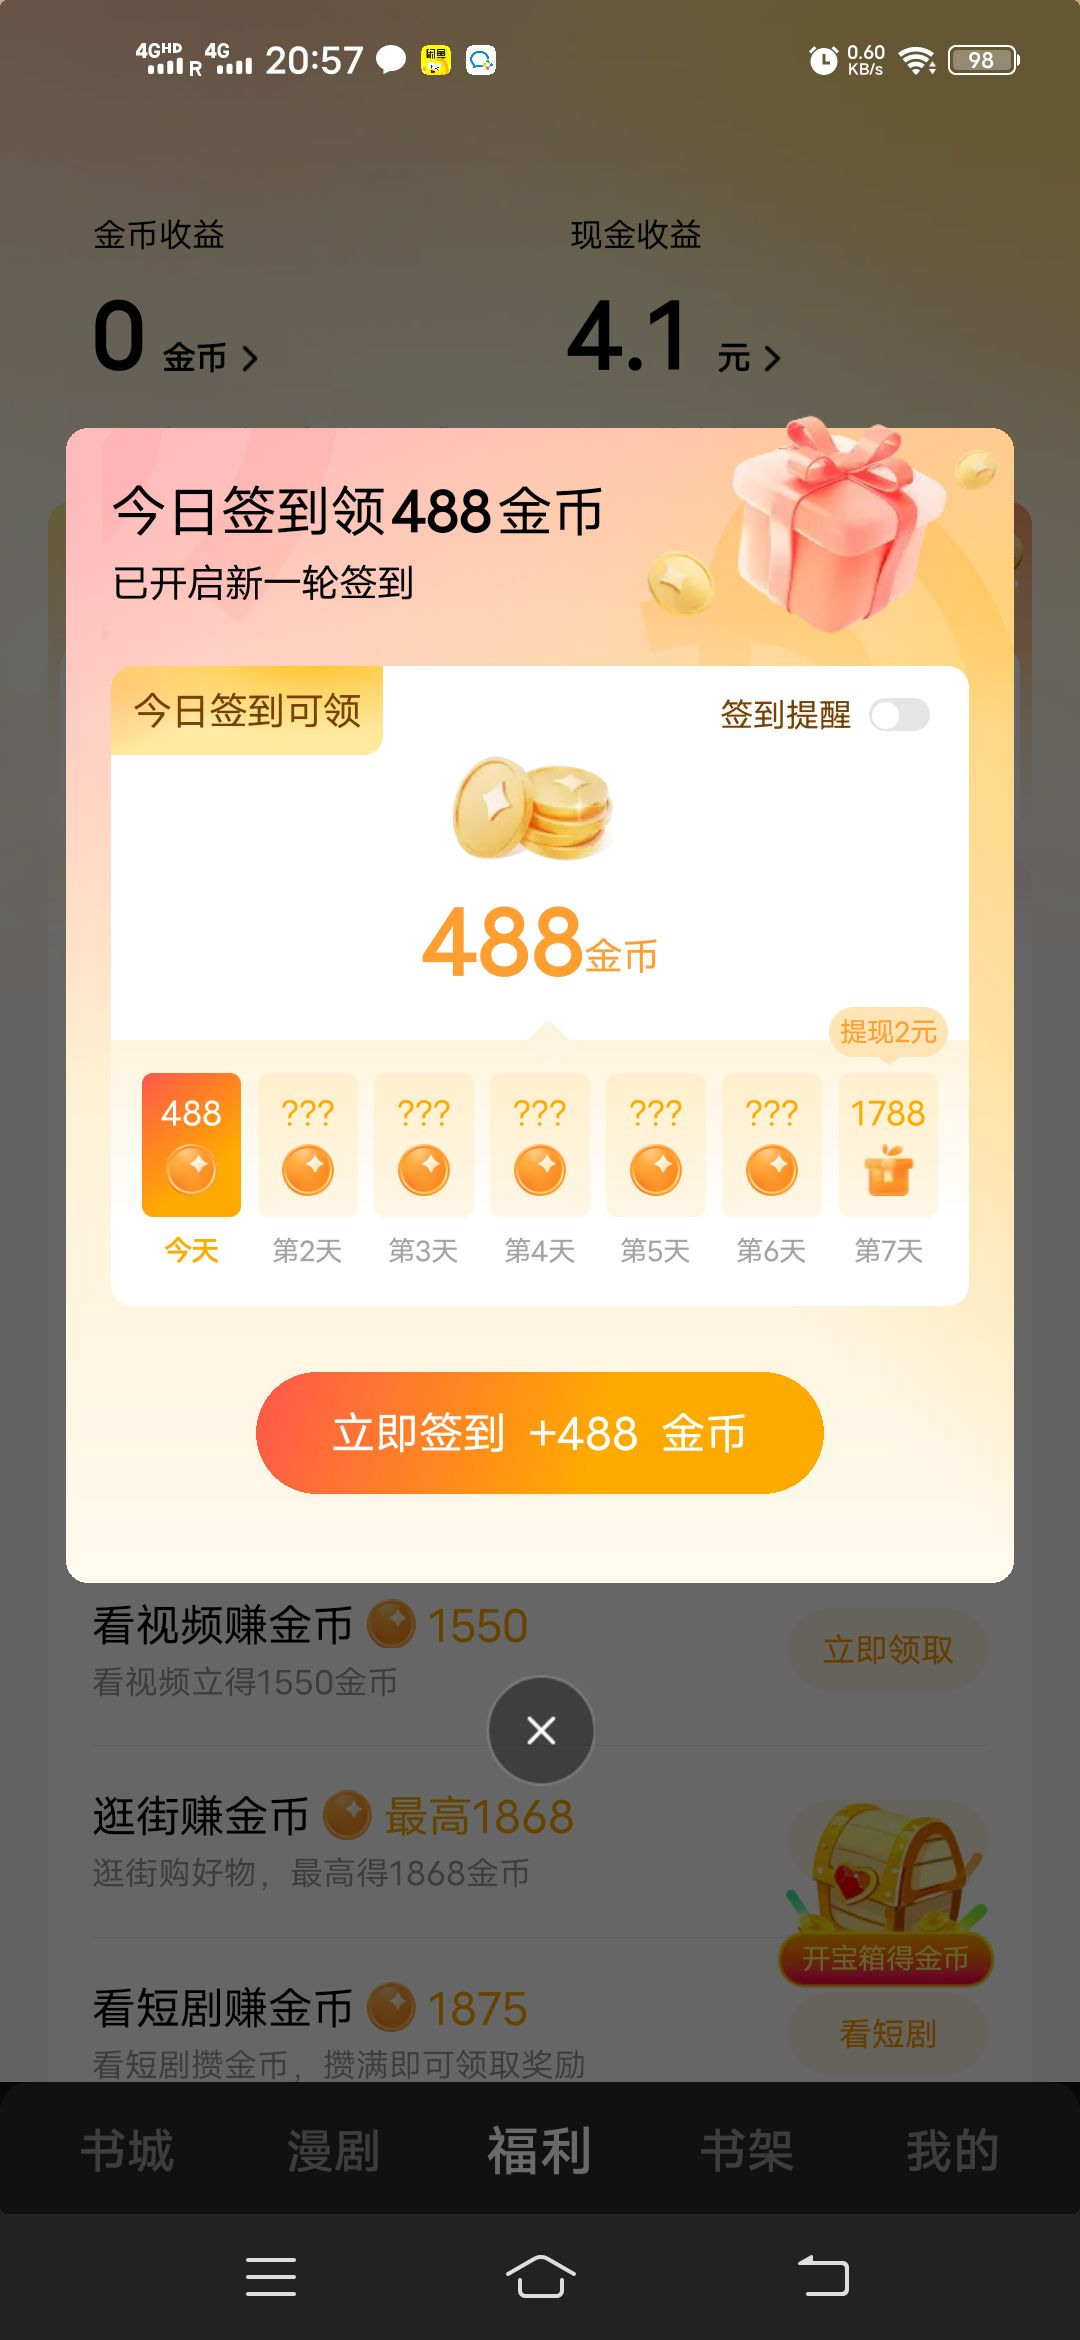
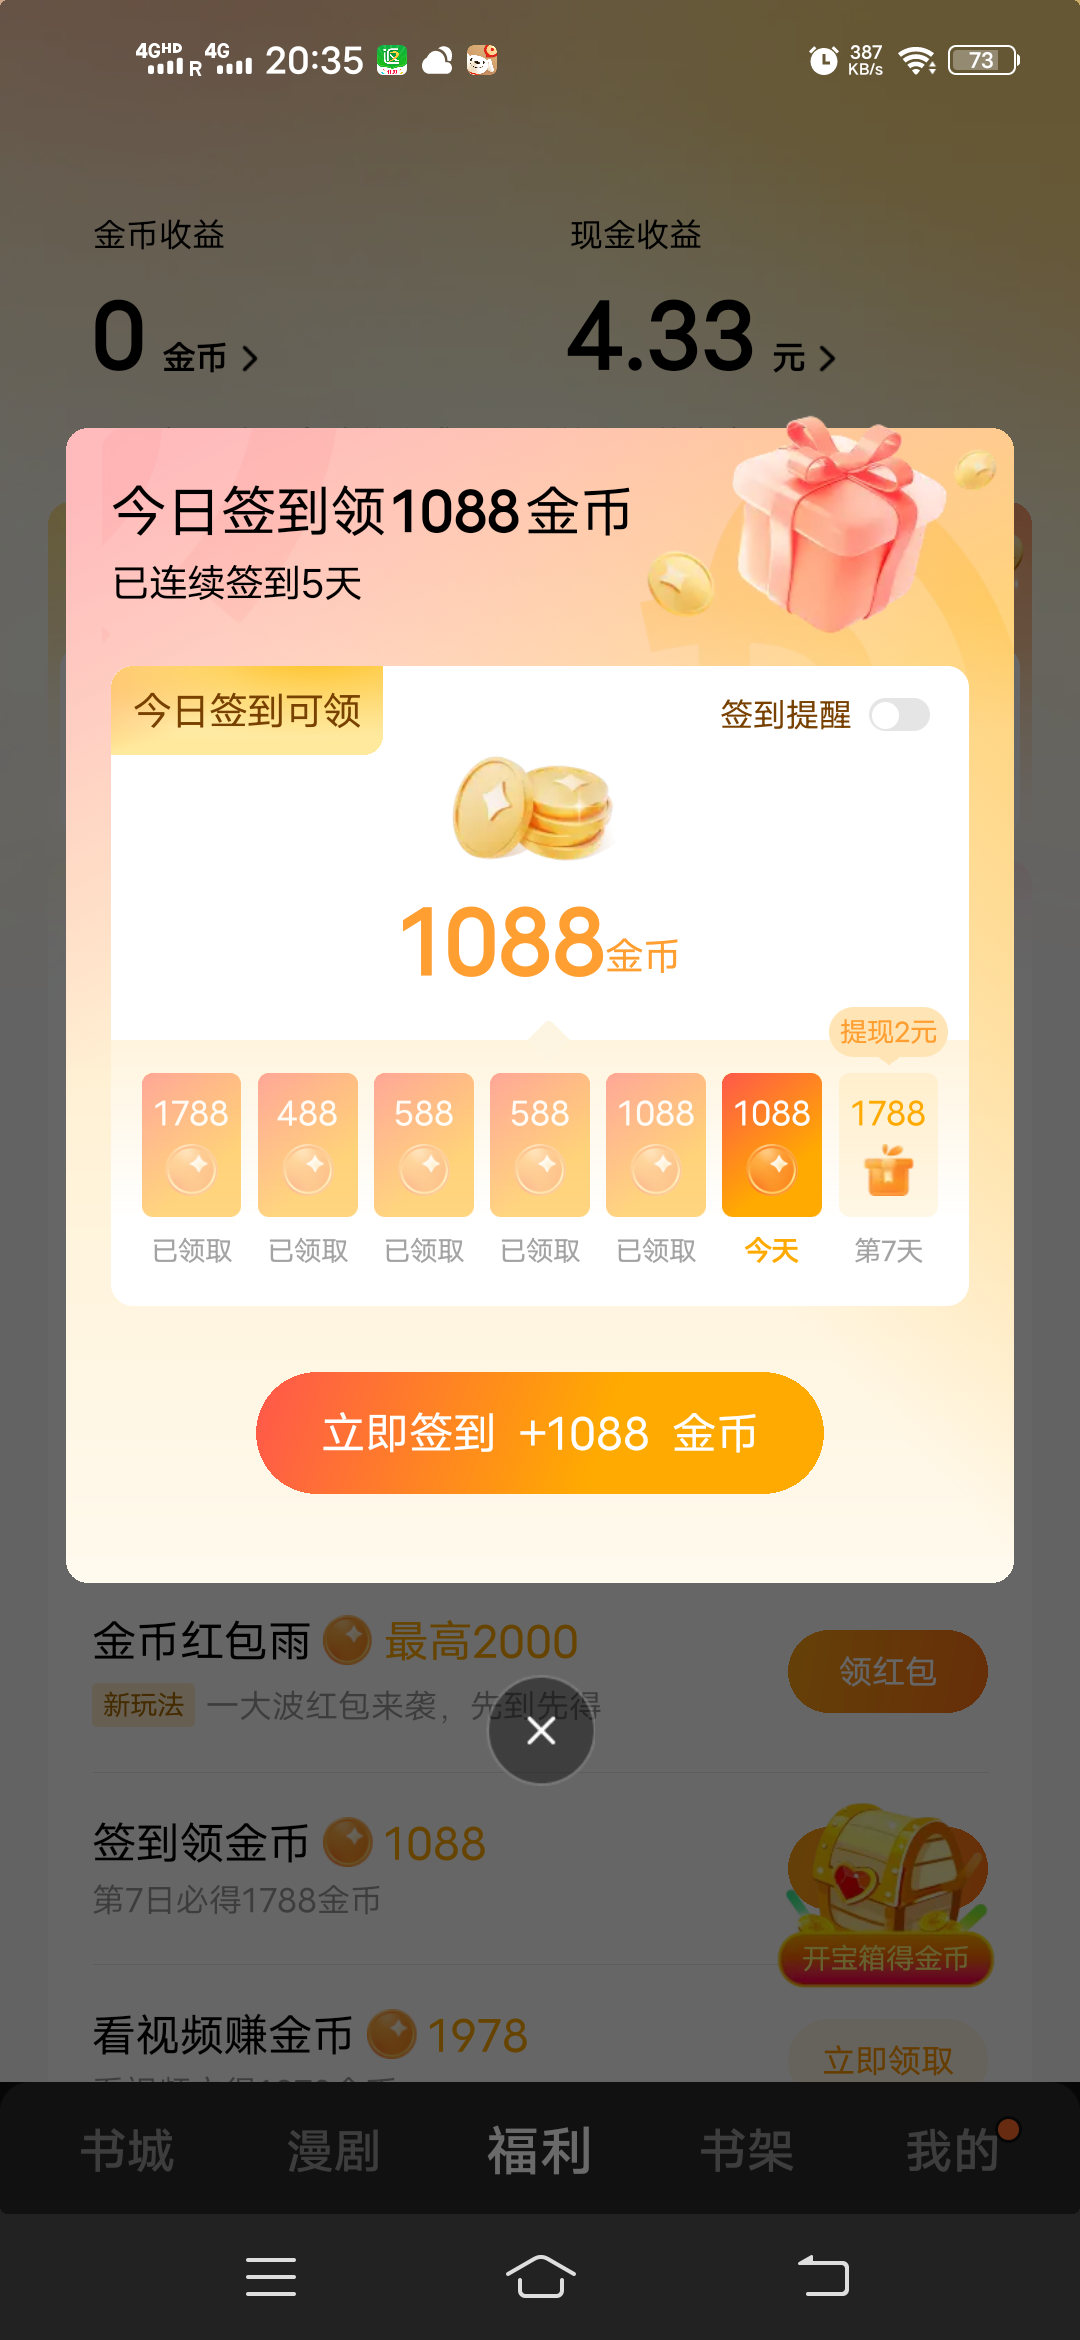
蛋花 ref_dialog.png 重拍成功：点签到行触真弹窗（红包雨未触发），替换损坏占位
- ref 复核：弹窗自比 dist=0 / 无弹窗福利页 dist=30（阈值14）
- 今日未签态自证（已连续5天/今天第6天1088）；立即签到(539,1432) 与配置吻合
- 旧损坏图备份 temp/recycle_20261103_eggref/；config 仅注记更新（解析零变化）

diff --git a/docs/全量跑35app对比_2026-11-02.md b/docs/全量跑35app对比_2026-11-02.md
@@ -284,3 +284,18 @@
 
 **门禁**：pytest **563 passed**（含 parity 35 + step_model 28 全绿）。
 **遗留**：蛋花 ref_dialog.png 重抓（任务3）、红果 sign 次日未签态重校（任务4）、全量重回归（任务5）。
+
+### 5.12 蛋花 ref_dialog.png 重拍成功（2026-11-03 20:30–20:40，派单卡 任务3）
+- **根因回顾**：旧 ref 自 10-24 起即损坏（libpng bad adaptive filter，OSError）→ 落地校验恒假阴性；
+  前夜 7 轮均被红包雨浮层阻挡。
+- **本批突破**：福利页红包雨**未自动触发**（与昨日夜间不同），冷启动 → 清启动弹窗（无）→ 福利tab →
+  页面为 11.11 新版布局（老用户回归福利/日常福利：翻卡赢金币/金币红包雨/签到领金币1088）→
+  点「签到领金币」行 (218,1856) → **「今日签到领1088金币/已连续签到5天/立即签到+1088金币」真弹窗
+  干净弹出**（无红包雨遮挡），连拍 15+10 帧取清晰帧。
+- **替换与复核**：`images/蛋花免费小说/landing/ref_dialog.png` ← temp/egg_dlg_03.png（1080x2340 整屏，
+  旧损坏图备份 temp/recycle_20261103_eggref/）。phash 复核（region [0,0.30,1,0.55]）：弹窗自比
+  **dist=0**；无弹窗福利页 **dist=30**（阈值 14，区分度充足）。
+- **现场补充**：今日未签态（弹窗自证「已连续签到5天/今天=第6天1088」）；立即签到按钮实测 (539,1432)
+  与配置 (540,1428) 吻合；弹窗X (543,1731)。取证后点 X 恢复现场，未代签（当日签到留给调度窗口）。
+- **配置变更**：`config/apps/32_蛋花免费小说.yaml` 仅 expect 注记更新（YAML 解析结果零变化，
+  parity/step_model 基线不受影响）。
